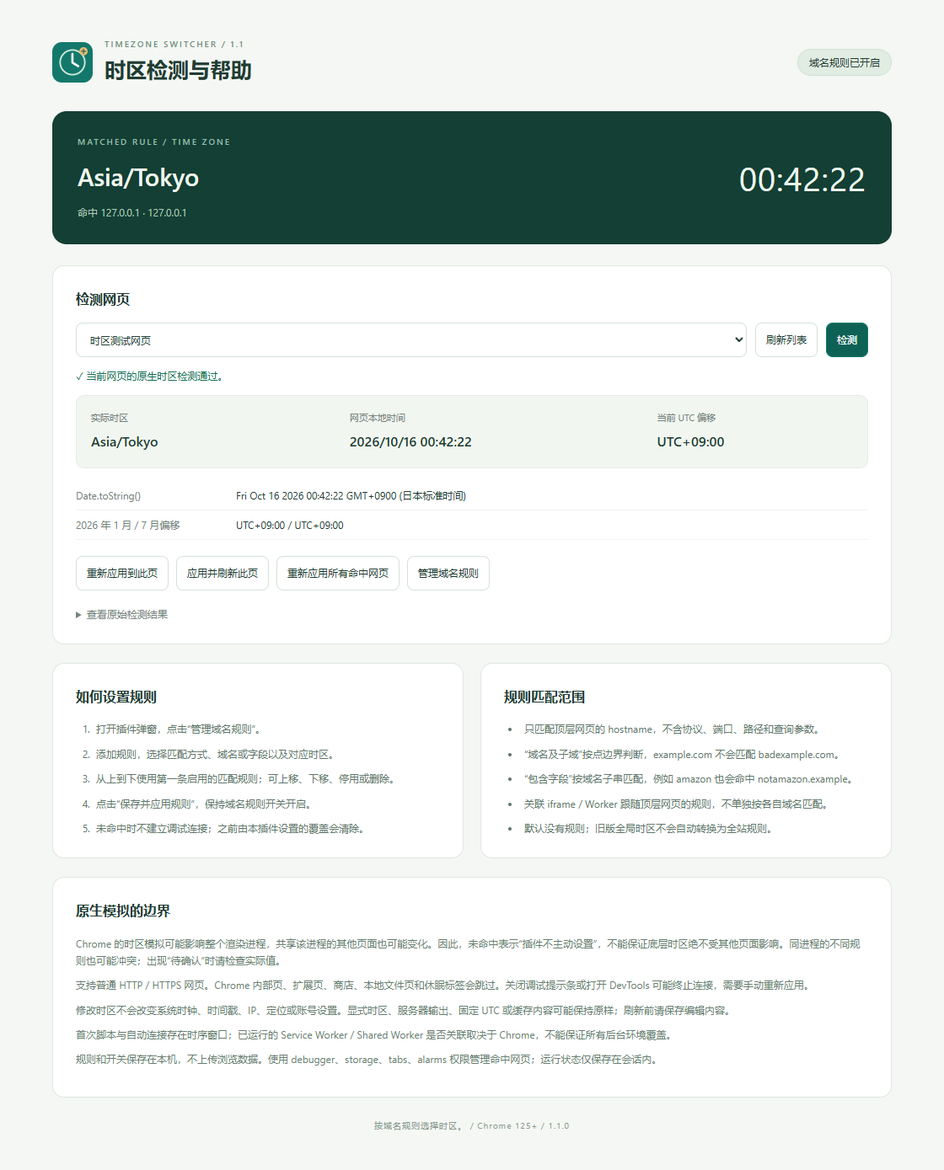
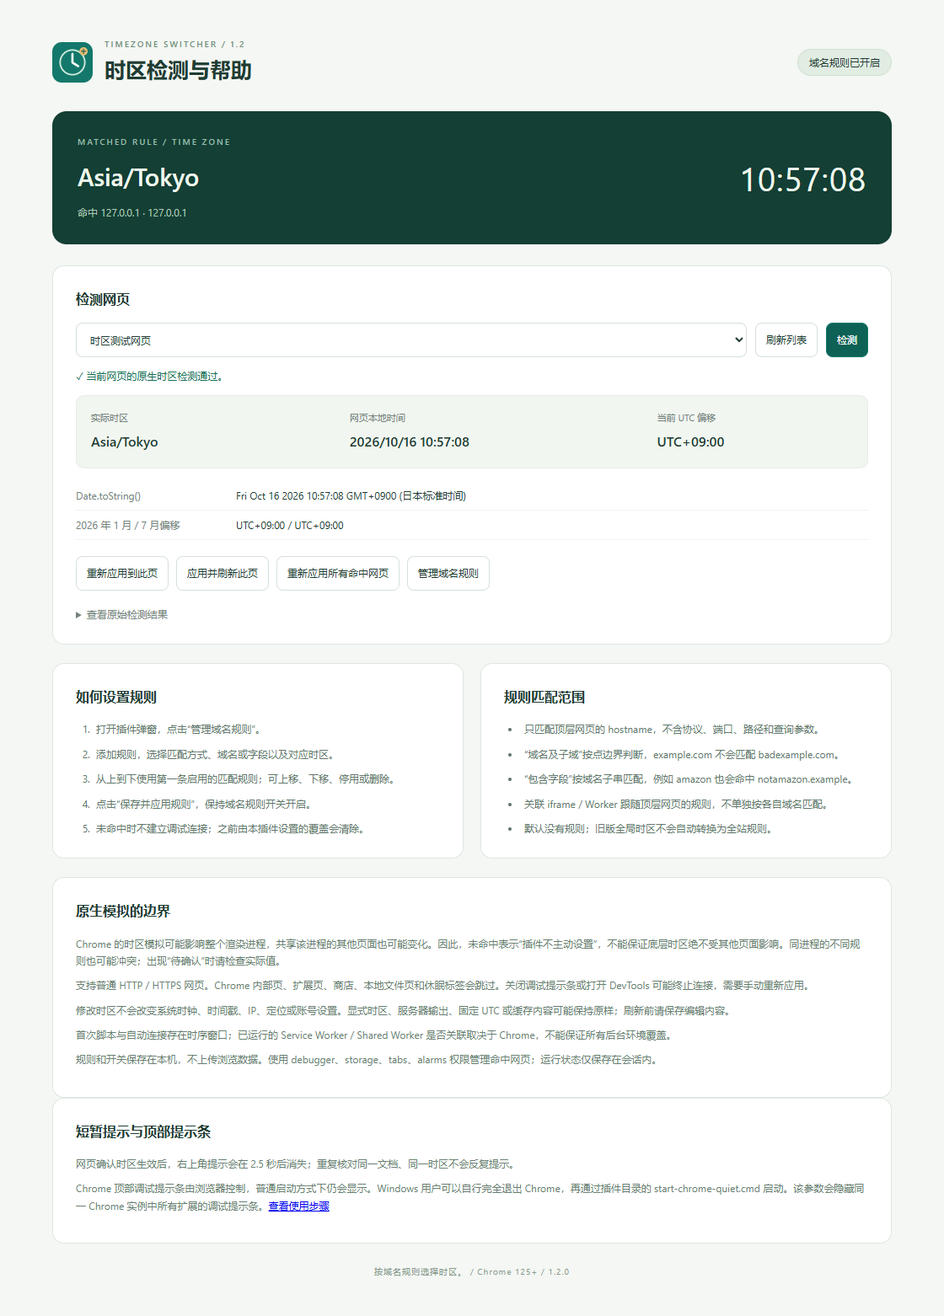
Add brief timezone feedback and optional quiet Chrome launcher

diff --git a/diagnostics.html b/diagnostics.html
@@ -1,7 +1,7 @@
 <!doctype html>
 <html lang="zh-CN"><head><meta charset="utf-8"><meta name="viewport" content="width=device-width, initial-scale=1"><title>时区检测与帮助</title><link rel="stylesheet" href="diagnostics.css"></head>
 <body><main>
-  <header><img src="icons/clock.svg" width="48" height="48" alt=""><div><p class="eyebrow">TIMEZONE SWITCHER / 1.1</p><h1>时区检测与帮助</h1></div><span id="globalStatus" class="badge">连接中</span></header>
+  <header><img src="icons/clock.svg" width="48" height="48" alt=""><div><p class="eyebrow">TIMEZONE SWITCHER / 1.2</p><h1>时区检测与帮助</h1></div><span id="globalStatus" class="badge">连接中</span></header>
   <section class="hero"><div><p class="eyebrow">MATCHED RULE / TIME ZONE</p><h2 id="targetZone">—</h2><p id="ruleInfo">选择网页查看匹配结果。</p></div><strong id="targetClock">--:--:--</strong></section>
   <section class="panel"><h2>检测网页</h2><div class="toolbar"><label class="sr-only" for="tabSelect">选择需要检测的网页</label><select id="tabSelect"></select><button id="refreshTabs">刷新列表</button><button id="probe" class="primary">检测</button></div><p id="detail" role="status">请选择普通网页。</p>
   <div class="metrics"><div><span>实际时区</span><strong id="actualZone">—</strong></div><div><span>网页本地时间</span><strong id="actualTime">—</strong></div><div><span>当前 UTC 偏移</span><strong id="actualOffset">—</strong></div></div>
@@ -10,5 +10,6 @@
   <section class="help-grid"><article class="panel"><h2>如何设置规则</h2><ol><li>打开插件弹窗，点击“管理域名规则”。</li><li>添加规则，选择匹配方式、域名或字段以及对应时区。</li><li>从上到下使用第一条启用的匹配规则；可上移、下移、停用或删除。</li><li>点击“保存并应用规则”，保持域名规则开关开启。</li><li>未命中时不建立调试连接；之前由本插件设置的覆盖会清除。</li></ol></article>
   <article class="panel"><h2>规则匹配范围</h2><ul><li>只匹配顶层网页的 hostname，不含协议、端口、路径和查询参数。</li><li>“域名及子域”按点边界判断，example.com 不会匹配 badexample.com。</li><li>“包含字段”按域名子串匹配，例如 amazon 也会命中 notamazon.example。</li><li>关联 iframe / Worker 跟随顶层网页的规则，不单独按各自域名匹配。</li><li>默认没有规则；旧版全局时区不会自动转换为全站规则。</li></ul></article></section>
   <section class="panel notes"><h2>原生模拟的边界</h2><p>Chrome 的时区模拟可能影响整个渲染进程，共享该进程的其他页面也可能变化。因此，未命中表示“插件不主动设置”，不能保证底层时区绝不受其他页面影响。同进程的不同规则也可能冲突；出现“待确认”时请检查实际值。</p><p>支持普通 HTTP / HTTPS 网页。Chrome 内部页、扩展页、商店、本地文件页和休眠标签会跳过。关闭调试提示条或打开 DevTools 可能终止连接，需要手动重新应用。</p><p>修改时区不会改变系统时钟、时间戳、IP、定位或账号设置。显式时区、服务器输出、固定 UTC 或缓存内容可能保持原样；刷新前请保存编辑内容。</p><p>首次脚本与自动连接存在时序窗口；已运行的 Service Worker / Shared Worker 是否关联取决于 Chrome，不能保证所有后台环境覆盖。</p><p>规则和开关保存在本机，不上传浏览数据。使用 debugger、storage、tabs、alarms 权限管理命中网页；运行状态仅保存在会话内。</p></section>
-  <footer>按域名规则选择时区。 / Chrome 125+ / 1.1.0</footer>
+  <section class="panel notes"><h2>短暂提示与顶部提示条</h2><p>网页确认时区生效后，右上角提示会在 2.5 秒后消失；重复核对同一文档、同一时区不会反复提示。</p><p>Chrome 顶部调试提示条由浏览器控制，普通启动方式下仍会显示。Windows 用户可以自行完全退出 Chrome，再通过插件目录的 start-chrome-quiet.cmd 启动。该参数会隐藏同一 Chrome 实例中所有扩展的调试提示条。<a href="https://github.com/NeverBetterEnough/time-zone-convertor#短暂提示与-chrome-顶部提示条" target="_blank" rel="noopener noreferrer">查看使用步骤</a></p></section>
+  <footer>按域名规则选择时区。 / Chrome 125+ / 1.2.0</footer>
 </main><script type="module" src="diagnostics.js"></script></body></html>

diff --git a/tests/background.test.js b/tests/background.test.js
@@ -23,7 +23,7 @@ function fakeChrome(seed = {}) {
     async set(value) { Object.assign(data[area], structuredClone(value)); }
   });
   const alarms = new Map();
-  const faults = { attach:null, detach:null };
+  const faults = { attach:null, detach:null, notice:false };
   const api = {
     storage: { local:storage("local"), session:storage("session") },
     runtime: { id:"test-id", getURL:p => `chrome-extension://test-id/${p}`, onMessage:new Event(), onInstalled:new Event(), onStartup:new Event() },
@@ -55,7 +55,10 @@ function fakeChrome(seed = {}) {
         log.push([method, target.tabId, params]);
         if (!attached.has(target.tabId)) throw new Error("Debugger is not attached");
         if (method === "Emulation.setTimezoneOverride") zones.set(target.tabId, params.timezoneId || "UTC");
-        if (method === "Runtime.evaluate") return { result:{ value:{ timeZone:zones.get(target.tabId) || "UTC", offset:0 } } };
+        if (method === "Runtime.evaluate") {
+          if (faults.notice && params.expression.includes("showTimezoneToast")) throw new Error("Notice unavailable");
+          return { result:{ value:{ timeZone:zones.get(target.tabId) || "UTC", offset:0 } } };
+        }
         return {};
       }
     }
@@ -280,4 +283,28 @@ test("user cancellation stays paused after leaving and returning to a matching d
   result = await mock.send({type:"getStatus",tabId:1});
   assert.equal(result.data.current.status,"paused");
   assert.equal(mock.attached.has(1),false);
+});
+
+test("feedback errors never detach or undo a successful native timezone", async () => {
+  const mock = await start();
+  mock.faults.notice = true;
+  const result = await mock.send({type:"updateSettings",rules:rulesFor("America/New_York"),tabId:1});
+  assert.equal(result.ok,true);
+  assert.equal(result.data.current.status,"active");
+  assert.equal(result.data.current.verified,true);
+  assert.equal(mock.zones.get(1),"America/New_York");
+  assert.equal(mock.attached.has(1),true);
+  assert.equal(mock.log.some(item => item[0] === "detach"),false);
+});
+
+test("feedback is sent only to matching roots and is cleared before detach", async () => {
+  const mock = await start({local:{settings:{enabled:true,rules:[]}}});
+  assert.equal(mock.log.some(item => item[0] === "Runtime.evaluate"),false);
+  await mock.send({type:"updateSettings",rules:[{...rulesFor()[0],type:"exact",pattern:"example.com"}]});
+  const notices = mock.log.filter(item => item[0] === "Runtime.evaluate" && item[2].expression.includes("showTimezoneToast"));
+  assert.deepEqual(notices.map(item => item[1]),[1]);
+  await mock.send({type:"updateSettings",enabled:false});
+  const clear = mock.log.findIndex(item => item[0] === "Runtime.evaluate" && item[2].expression.includes("clearTimezoneToast"));
+  const detach = mock.log.findIndex(item => item[0] === "detach");
+  assert.ok(clear >= 0 && clear < detach);
 });

diff --git a/toast.js b/toast.js
@@ -1,0 +1,54 @@
+// This bundled function runs in the top-level webpage through the existing
+// debugger connection. JSON.stringify below passes data, never executable input.
+function showTimezoneToast(timeZone, force) {
+  if (typeof document === "undefined" || !document.documentElement) return false;
+  if (Intl.DateTimeFormat().resolvedOptions().timeZone !== timeZone) return false;
+
+  const key = Symbol.for("time-zone-convertor.feedback.v1");
+  const previous = window[key];
+  // Keep the marker after dismissal, so alarms, repeated tab events and service
+  // worker restarts cannot keep showing the same notice in this document.
+  if (!force && previous?.timeZone === timeZone) return false;
+  if (previous?.timer) clearTimeout(previous.timer);
+  previous?.host?.remove();
+
+  const host = document.createElement("div");
+  host.setAttribute("data-timezone-switcher-toast", "");
+  host.style.cssText = "all:initial!important;position:fixed!important;top:24px!important;right:24px!important;z-index:2147483647!important;pointer-events:none!important;max-width:calc(100vw - 48px)!important;";
+  const shadow = host.attachShadow({ mode:"open" });
+  const notice = document.createElement("div");
+  notice.setAttribute("role", "status");
+  notice.setAttribute("aria-live", "polite");
+  notice.style.cssText = "box-sizing:border-box;padding:14px 18px;border:1px solid #b5ded5;border-radius:12px;background:#effbf6;color:#154d45;box-shadow:0 8px 32px #133d4526;font:14px/1.6 system-ui,'Microsoft YaHei',sans-serif;overflow-wrap:anywhere;";
+  const title = document.createElement("strong");
+  title.style.cssText = "display:block;font-size:12px;font-weight:600;color:#48736b;";
+  title.textContent = "时区切换器";
+  const message = document.createElement("span");
+  message.textContent = `已切换至 ${timeZone}`;
+  notice.append(title, message);
+  shadow.append(notice);
+  document.documentElement.append(host);
+
+  const state = { timeZone, host, timer:0 };
+  window[key] = state;
+  // The timer removes the element even if webpage CSP blocks visual styling.
+  state.timer = setTimeout(() => {
+    host.remove();
+    state.host = null;
+    state.timer = 0;
+  }, 2500);
+  return true;
+}
+
+function clearTimezoneToast() {
+  const key = Symbol.for("time-zone-convertor.feedback.v1");
+  const previous = window[key];
+  if (previous?.timer) clearTimeout(previous.timer);
+  previous?.host?.remove();
+  delete window[key];
+}
+
+export const CLEAR_TOAST_EXPRESSION = `(${clearTimezoneToast.toString()})()`;
+export function toastExpression(timeZone, force = false) {
+  return `(${showTimezoneToast.toString()})(${JSON.stringify(timeZone)},${Boolean(force)})`;
+}

diff --git a/background.js b/background.js
@@ -1,4 +1,5 @@
 import { DEFAULT_SETTINGS, ALARM_NAME, normalizeTimeZone, normalizeRules, loadSettings, findRule, hostnameFromUrl, ruleLabel, supportsTab, errorText, isGone, friendlyError, PROBE_EXPRESSION } from "./core.js";
+import { toastExpression, CLEAR_TOAST_EXPRESSION } from "./toast.js";
 
 let settings = { ...DEFAULT_SETTINGS };
 const owned = new Set();
@@ -90,6 +91,9 @@ async function applyChildTimeZone(target, record, timeZone) {
 
 async function releaseTab(tabId) {
   if (!owned.has(tabId)) return;
+  try {
+    await command({ tabId }, "Runtime.evaluate", { expression:CLEAR_TOAST_EXPRESSION, timeout:1000 });
+  } catch { /* Feedback must never prevent timezone cleanup. */ }
   // Clear while still attached; also clear child frame overrides before detach.
   for (const target of childTargets(tabId)) {
     try { await command(target, "Emulation.setTimezoneOverride", { timezoneId: "" }); } catch { /* closed or unsupported worker */ }
@@ -136,6 +140,7 @@ async function applyTab(tab) {
     return;
   }
   try {
+    let newlyAttached = false;
     if (owned.has(tabId)) {
       try { await command({ tabId }, "Emulation.setTimezoneOverride", { timezoneId: rule.timeZone }); }
       catch (error) {
@@ -148,6 +153,7 @@ async function applyTab(tab) {
     if (!owned.has(tabId)) {
       await chrome.debugger.attach({ tabId }, "1.3");
       owned.add(tabId);
+      newlyAttached = true;
       await command({ tabId }, "Emulation.setTimezoneOverride", { timezoneId: rule.timeZone });
     }
     if (!configuredRoots.has(tabId)) {
@@ -159,6 +165,11 @@ async function applyTab(tab) {
       if (child) await applyChildTimeZone(target, child, rule.timeZone);
     }
     await setState(tabId, "active", `已应用：${ruleLabel(rule)}`, { timeZone: rule.timeZone, ruleId: rule.id });
+    try {
+      await command({ tabId }, "Runtime.evaluate", {
+        expression:toastExpression(rule.timeZone, newlyAttached), timeout:1000
+      });
+    } catch { /* A notice failure must not undo the native timezone override. */ }
   } catch (error) {
     // Do not leave a debugger attached after partial setup failed.
     if (owned.has(tabId)) await releaseTab(tabId);

diff --git a/rules.html b/rules.html
@@ -1,7 +1,7 @@
 <!doctype html>
 <html lang="zh-CN"><head><meta charset="utf-8"><meta name="viewport" content="width=device-width, initial-scale=1"><title>域名规则 - 时区切换器</title><link rel="stylesheet" href="rules.css"></head>
 <body><main>
-  <header><img src="icons/clock.svg" width="46" height="46" alt=""><div><p class="eyebrow">TIMEZONE SWITCHER / 1.1</p><h1>域名与时区规则</h1></div><span id="saveState" class="badge">加载中</span></header>
+  <header><img src="icons/clock.svg" width="46" height="46" alt=""><div><p class="eyebrow">TIMEZONE SWITCHER / 1.2</p><h1>域名与时区规则</h1></div><span id="saveState" class="badge">加载中</span></header>
   <section class="hero"><h2>只在域名命中时主动切换</h2><p>从上到下，使用第一条启用且匹配的规则。默认没有规则；未命中时不建立调试连接，并清除本插件此前设置的覆盖。</p><p class="limitation">原生模拟按渲染进程生效，共享该进程的其他页面仍可能受影响。规则针对顶层网页域名，关联 iframe / Worker 跟随该网页。</p></section>
   <section class="panel"><div class="section-head"><div><h2>规则列表</h2><p>只填写域名或字段，不填写协议、端口、路径或通配符。规则修改后需要保存。</p></div><button id="addRule" disabled>添加规则</button></div><div id="rules"></div><div class="save-bar"><span id="ruleCount">0 条规则</span><button id="save" class="primary" disabled>保存并应用规则</button></div><p id="error" class="message error" role="alert" hidden></p><p id="notice" class="message notice" role="status" hidden></p></section>
   <section class="panel"><h2>试一下是否命中</h2><p>使用当前编辑中的规则进行本地预览，不会访问网站或修改网页。</p><div class="tester"><label class="sr-only" for="testHost">域名或网址</label><input id="testHost" placeholder="输入域名或完整网址，例如 www.amazon.com"><button id="testRule">测试匹配</button></div><p id="testResult" role="status">只检查域名；网址路径、查询参数和端口不会参与匹配。</p></section>

diff --git a/popup.html b/popup.html
@@ -2,7 +2,7 @@
 <html lang="zh-CN">
 <head><meta charset="utf-8"><meta name="viewport" content="width=device-width, initial-scale=1"><title>时区切换器</title><link rel="stylesheet" href="popup.css"></head>
 <body><main>
-  <header class="brand"><img src="icons/clock.svg" width="35" height="35" alt=""><div><h1>时区切换器</h1><p>命中域名规则，才主动切换</p></div><span class="version">1.1</span></header>
+  <header class="brand"><img src="icons/clock.svg" width="35" height="35" alt=""><div><h1>时区切换器</h1><p>命中域名规则，才主动切换</p></div><span class="version">1.2</span></header>
   <section class="power-panel"><div><span id="powerLabel" class="power-label">正在连接…</span><p id="powerDescription">规则加载中</p></div><label class="switch"><input id="enabled" type="checkbox" role="switch" aria-label="启用域名规则" disabled><span></span></label></section>
   <section class="settings-panel">
     <div class="field-label">当前域名 <span id="host">—</span></div>

diff --git a/README.md b/README.md
@@ -16,7 +16,7 @@
 
 A lightweight Chrome extension that applies IANA time zones to matching domains using Chrome's native timezone emulation. Rules are ordered; the first enabled match wins. Unmatched tabs are not actively overridden.
 
-> **使用前须知：**启用时 Chrome 会显示调试提示条。关闭提示条或打开 DevTools 可能终止相关连接，之后需要点击“重新应用”。插件修改网页使用的时区，不修改系统时钟、IP 或地理位置。
+> **使用前须知：**时区生效后，网页右上角显示 2.5 秒提示。普通方式启动 Chrome 时仍会显示浏览器调试提示条；Windows 用户可选择下文的启动脚本隐藏它。关闭调试提示条或打开 DevTools 可能终止相关连接。插件修改网页使用的时区，不修改系统时钟、IP 或地理位置。
 
 > **隔离限制：**Chrome 原生时区覆盖可能影响整个渲染进程。未命中表示插件不主动连接或设置，无法保证同进程的其他页面完全不受影响；同进程的不同规则也可能冲突。规则按顶层网页域名判断，关联 iframe / Worker 跟随该网页。
 
@@ -49,6 +49,7 @@ A lightweight Chrome extension that applies IANA time zones to matching domains 
 - **关闭恢复**：关闭插件内开关后，先清除覆盖，再断开调试连接。
 - **设置持久化**：在本机保存开关和目标时区，重启后继续使用。
 - **生效检测**：从当前网页读取实际时区、本地时间、UTC 偏移及冬夏偏移，显示暂停、失败和子目标警告。
+- **短暂提示**：确认时区生效后，在网页右上角提示 2.5 秒；同一文档、同一时区的重复检查不再弹出。
 
 ## 安装
 
@@ -76,7 +77,7 @@ git clone https://github.com/NeverBetterEnough/time-zone-convertor.git
 
 保留加载时使用的目录；不要直接选择 ZIP 文件或仓库的父目录。移动目录后，需要重新加载扩展。
 
-[v1.0 PDF 教程](时区切换器-使用教程.pdf) 保留作旧版与安装参考，其中的全局时区操作不适用于 v1.1；当前规则设置请以本 README 和规则页说明为准。PDF 中的本机路径请替换为实际目录。
+[v1.0 PDF 教程](时区切换器-使用教程.pdf) 保留作旧版与安装参考，其中的全局时区操作不适用于 v1.1 及以上；当前规则设置请以本 README 和规则页说明为准。PDF 中的本机路径请替换为实际目录。
 
 ## 使用
 
@@ -111,6 +112,25 @@ git clone https://github.com/NeverBetterEnough/time-zone-convertor.git
 
 浏览器可能将部分标识规范化为别名，这是正常行为。地区规则由 Chrome 内置的时区数据库处理。
 
+### 短暂提示与 Chrome 顶部提示条
+
+网页确认时区与规则一致后，右上角显示“已切换至 …”，**2.5 秒后自动移除**，不需要点击，也不会抢走焦点。换成另一个时区或加载新文档时会再次提示；同一文档、同一时区的定期核对、保存或重新应用不会反复弹出。关闭规则或离开命中域名会清理当前提示。提示失败不影响时区设置。
+
+Chrome 顶部“正在调试此浏览器”是浏览器安全提示，普通扩展没有将它改成定时提示的接口。[Chrome 官方说明](https://developer.chrome.com/docs/extensions/develop/migrate/remote-hosted-code#browserdebugger)指出，关闭提示条会终止调试连接；本项目的原生时区覆盖需要保持连接。
+
+Windows 用户如需隐藏顶部提示条，可选用项目根目录的 **`start-chrome-quiet.cmd`**：
+
+1. 更新插件后，在 `chrome://extensions` 点击重新加载。
+2. 保存网页内容，自行完全退出 Chrome；后台仍有 Chrome 进程时，也需要退出。脚本检测到 Chrome 正在运行会停止，不会关闭任何进程。
+3. 双击 `start-chrome-quiet.cmd`，用它启动 Chrome，然后打开命中规则的网页。
+4. 页面只显示短暂的插件提示；原生时区仍保持生效。后续需要这种效果时，继续从该脚本启动。
+
+脚本仅查找 Chrome 的标准安装目录，使用原有默认浏览器配置，不会自动安装或加载扩展、不改快捷方式或注册表。Chrome 安装在自定义目录时，可在自己的 Chrome 快捷方式目标末尾添加 ` --silent-debugger-extension-api`，同样需要完全退出后重新启动。
+
+**该启动参数会隐藏同一 Chrome 实例中所有扩展的调试提示条，作用范围不限于本插件。**请了解这一点后再使用；回到普通启动方式即可恢复浏览器原有提示。参数来自 [Chromium 实现](https://github.com/chromium/chromium/blob/main/chrome/browser/extensions/api/debugger/debugger_api.cc)，属于浏览器启动选项，未来版本或管理策略可能改变它的行为。
+
+开发者可执行 `cmd /c start-chrome-quiet.cmd --dry-run` 检查启动路径和参数，此模式不会启动 Chrome。
+
 ### 各个按钮的作用
 
 | 操作 | 行为 |
@@ -143,7 +163,7 @@ git clone https://github.com/NeverBetterEnough/time-zone-convertor.git
 
 ### 常见问题
 
-**为什么出现“正在调试此浏览器”的提示？** 这是 `chrome.debugger` 的浏览器提示。插件通过该接口使用 Chrome 原生时区模拟；关闭提示条会终止相关连接。
+**为什么出现“正在调试此浏览器”的提示？** 这是 `chrome.debugger` 的浏览器提示。插件通过该接口使用 Chrome 原生时区模拟；关闭提示条会终止相关连接。若需要隐藏，参见上方“短暂提示与 Chrome 顶部提示条”的可选启动方式。
 
 **关闭提示条后为什么不自动恢复？** 插件尊重主动取消，不会反复抢回暂停的标签。点击“重新应用”恢复当前命中页；保存规则或在检测页点击“重新应用所有命中网页”可批量恢复。
 
@@ -171,7 +191,7 @@ git clone https://github.com/NeverBetterEnough/time-zone-convertor.git
 
 | 权限 | 用途 |
 | --- | --- |
-| `debugger` | 设置原生时区模拟，读取检测值，管理相关 iframe / Worker |
+| `debugger` | 设置原生时区模拟，读取检测值，显示页面短暂提示，管理相关 iframe / Worker |
 | `storage` | 本机保存设置，在浏览器会话内保存连接与暂停状态 |
 | `tabs` | 识别普通网页、监听标签与导航、在检测页列出标签 |
 | `alarms` | 每分钟核对遗漏的标签；关闭且清理完成后移除闹钟 |
@@ -207,7 +227,7 @@ npm run test:e2e
 
 测试使用隔离临时浏览器配置和本地 HTTP 服务，不读取或修改日常 Chrome 配置。报告与截图生成在 `test-results/`，不会提交到 Git。
 
-单元与后台状态测试 **23 项**、Chromium 153.0.8010.12 端到端检查 **22 项**已通过；浏览器测试结果记录在生成的 `test-results/e2e-results.json` 中：
+单元与后台状态测试 **25 项**、Chromium 153.0.8010.12 端到端检查 **27 项**已通过；浏览器测试结果记录在生成的 `test-results/e2e-results.json` 中：
 
 - 按规则应用、设置验证、并发设置串行处理、用户取消后保持暂停、清理失败重试。
 - 空规则不连接、旧版安全迁移、hostname 边界、路径/参数不参与匹配、首条优先、停用/删除、过期编辑页冲突检查。
@@ -216,6 +236,9 @@ npm run test:e2e
 - 多标签切换、导航、关闭恢复、再次启用、刷新和重启恢复。
 - 命中到未命中导航、不同站点使用不同时区、规则编辑/排序/停用/删除与本地匹配预览。
 - 弹窗高度检查与从网页读取实际时区的检测界面。
+- 提示自动消失后时区继续生效、重复设置不重复提示、切换时区和新文档提示、严格 CSP 页面、提示失败不中断原生模拟。
+
+端到端测试在隔离 Chromium 中传入可选静默参数并验证时区功能；headless 测试不验证浏览器窗口顶部提示条的视觉表现。Windows 启动脚本仅执行 `--dry-run` 检查，不启动日常 Chrome。
 
 改动代码后，在 `chrome://extensions` 点击插件卡片上的重新加载按钮，再刷新需要验证的网页。
 
@@ -225,6 +248,7 @@ npm run test:e2e
 manifest.json               Manifest V3 配置
 background.js              后台连接、应用、清理与状态管理
 core.js                    时区校验、页面范围与静态检测表达式
+toast.js                   2.5 秒页面提示与同文档去重
 popup.html / .css / .js     插件弹窗
 zones.js                   时区列表与常见城市中文名称
 rules.html / .css / .js     域名规则编辑与本地匹配预览
@@ -233,6 +257,7 @@ icons/                     SVG 源图与 PNG 图标
 docs/images/               README 的真实界面截图
 tests/                     单元、后台状态与浏览器测试
 tools/create-icons.ps1     Windows 图标生成脚本
+start-chrome-quiet.cmd      可选 Chrome 启动脚本（隐藏所有扩展调试提示条）
 时区切换器-使用教程.pdf       v1.0 旧版图文教程（安装参考）
 CHANGELOG.md                版本变化与升级说明
 LICENSE                    MIT 许可证

diff --git a/CHANGELOG.md b/CHANGELOG.md
@@ -1,5 +1,14 @@
 # Changelog
 
+## 1.2.0 - 2026-10-16
+
+- 原生时区确认生效后，网页右上角显示短暂提示，2.5 秒后自动消失。
+- 同一文档、同一时区的重复检查不重复弹出；变更时区时替换提示，关闭规则时清理提示。
+- 提示失败不影响调试连接和原生时区覆盖。
+- 提供可选 Windows 启动脚本 `start-chrome-quiet.cmd`，通过浏览器参数隐藏顶部调试提示条；运行前需自行完全退出 Chrome。
+- 明确说明：普通启动仍显示 Chrome 提示条；静默启动参数影响同一 Chrome 实例中的所有扩展，并非仅本插件。
+- 增加提示消失、去重、严格 CSP、错误隔离与启动参数测试。
+
 ## 1.1.0 - 2026-10-15
 
 - 将全局时区应用改为域名规则：精确域名、域名及子域、包含字段。
